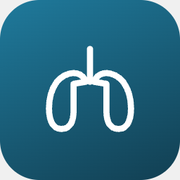
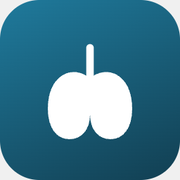
Novo ícone de pulmão e seção Equipe Multiprofissional
- Redesenha o favicon da Fisioterapia: pulmões preenchidos, mais
  polidos que a versão anterior (só contorno)
- Cria a seção "Equipe Multiprofissional", separando Fisioterapia
  e Enfermagem das demais ferramentas — são portais por categoria
  profissional, não ferramentas de uso geral, então crescem e se
  organizam melhor com seção própria

Changed region(s): [[0.25, 0.2222, 0.75, 0.7778]]

diff --git a/index.html b/index.html
@@ -227,6 +227,10 @@
       <h2>Formulários de Notificação</h2>
       <p>Fichas SINAN de notificação compulsória para baixar</p>
     </a>
+  </div>
+
+  <div class="eyebrow">Equipe Multiprofissional</div>
+  <div class="grid">
     <a class="card" href="fisioterapia/">
       <div class="icon-chip"><img src="assets/favicons-externos/fisioterapia.png" alt=""></div>
       <h2>Fisioterapia</h2>
